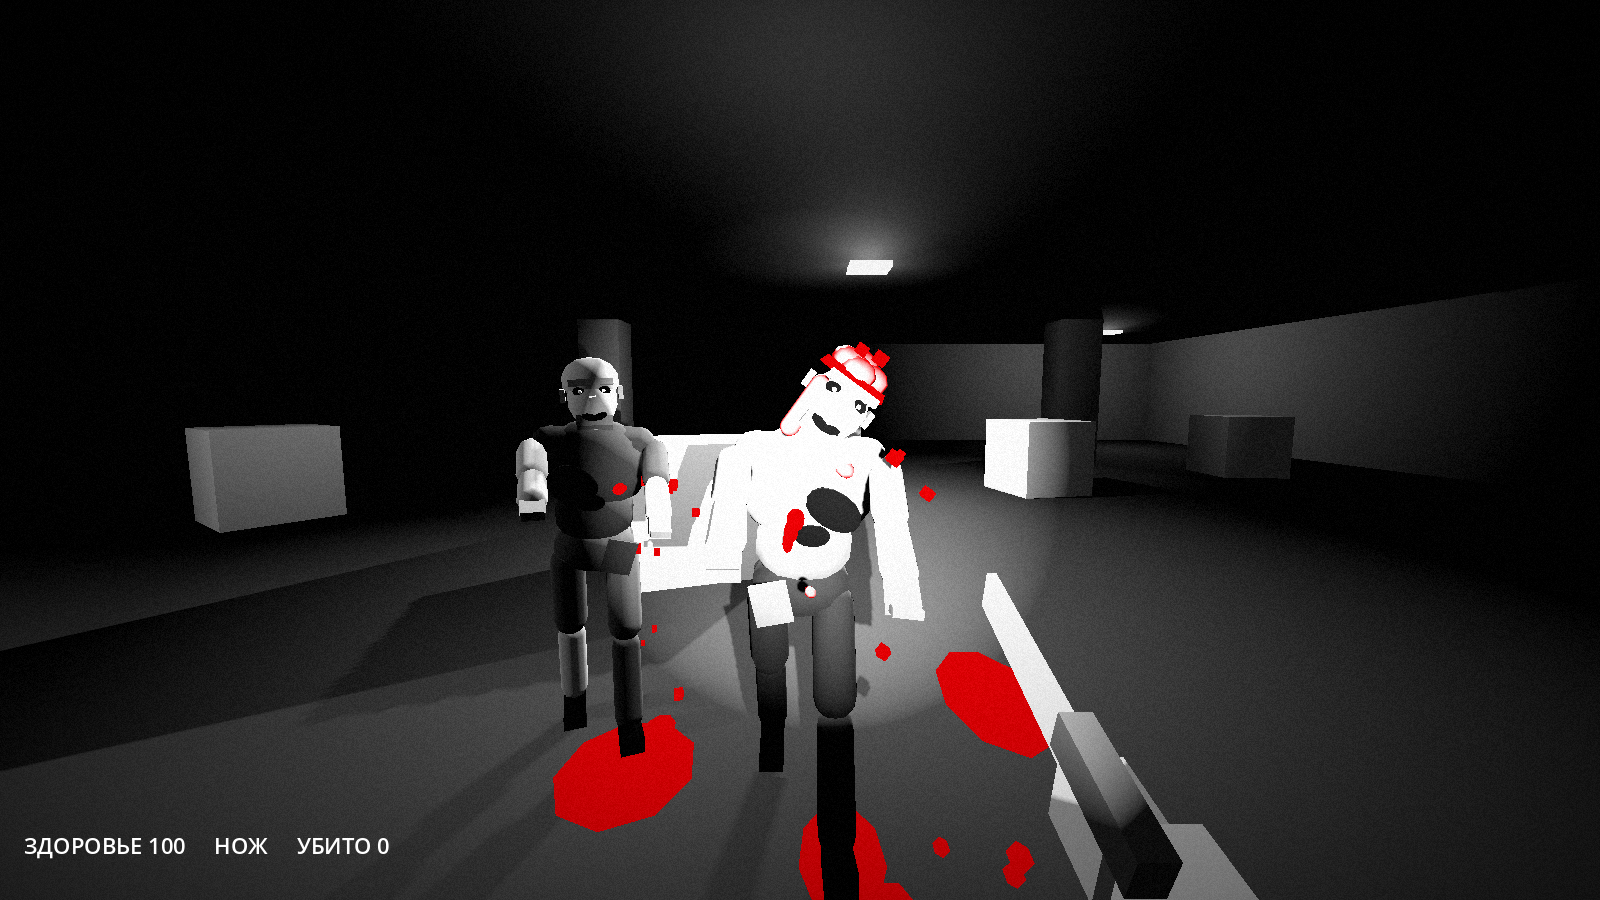
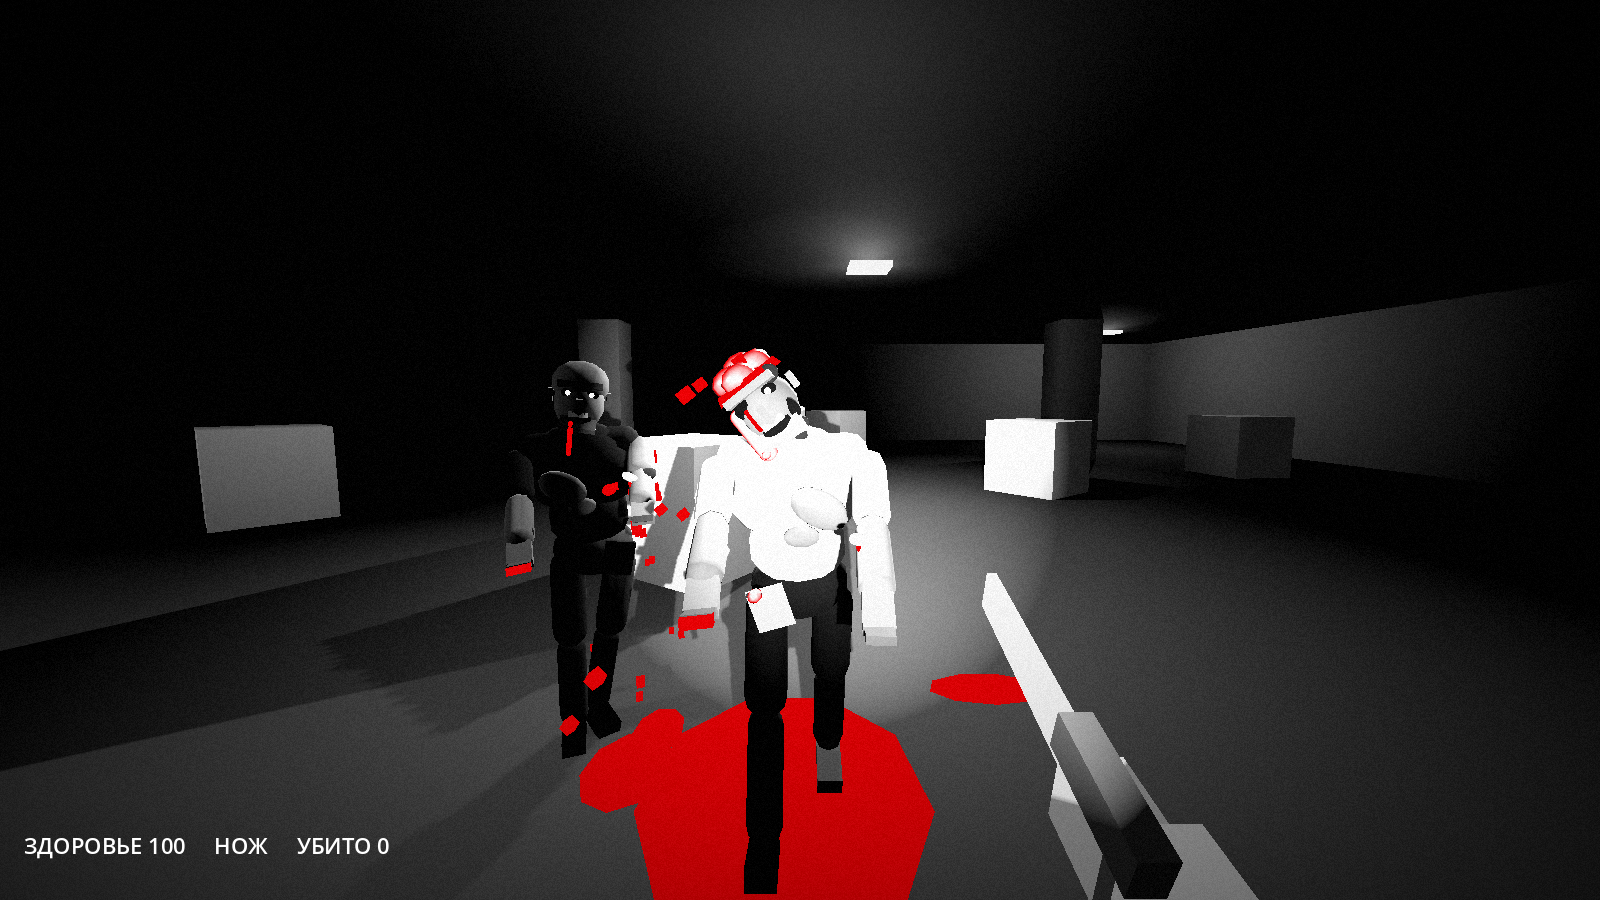
Мерзкие зомби, заметные игроки, хромые и быстрые зомби
- Зомби: серая кожа в трупных пятнах, светящиеся бельма, оскал, кровавая
  слюна, выбитый глаз, прогнившая щека, торчащая кость, кишки.
- Игроки: чистые тона со слабым свечением и фонарь на плече.
- Походки: обычная, хромая (волочит ногу, рывками), быстрая.

Claude-Session: https://claude.ai/code/session_012jPe5PbnitmpuB6XNT2ay9

diff --git a/README.md b/README.md
@@ -31,7 +31,9 @@
 ## Что ещё есть
 
 - Четыре персонажа с разным силуэтом, чтобы различать их без цвета: 1 — светлая куртка, кепка и рюкзак; 2 — тёмное пальто и светлый хвост волос; 3 — каска, жилет с полосами и борода; 4 — капюшон и повязка на лице. Напарники видят у тебя в руках то же оружие, что и ты.
-- Зомби сгорбленные, в рваной одежде, с отвисшей челюстью; руки тянутся вперёд, ноги шагают, голова болтается. Внешность у каждого немного своя.
+- Живых видно сразу: они прямые, в чистой одежде со слабым свечением и с горящим фонарём на плече.
+- Зомби сгорбленные, с серой гниющей кожей в трупных пятнах, мутными светящимися бельмами, оскалом зубов и кровавой слюной. У кого-то выбит глаз, прогнила щека, торчит сломанная кость, из вспоротого живота свисают кишки. Руки тянутся вперёд, голова болтается.
+- Походки: обычный шаркающий шаг, хромые (волочат негнущуюся ногу и заваливаются на неё, идут рывками) и быстрые (сильнее наклонены вперёд, примерно в полтора раза быстрее).
 - 6 зон попадания: голова (×3 урона, мгновенная смерть), торс, две руки, две ноги. Пуля, задевшая голову вскользь, сносит верх черепа: зомби жив, мозги вываливаются и стекают по лицу, следующее попадание в голову добивает.
 - Из каждой раны толчками бьёт кровь. Оторванная часть улетает с кровавым следом, из обрубка хлещет. Без правой ноги зомби ползёт с опорой на левую, без левой — на правую, без обеих — подтягивается на руках; без рук бьёт слабее.
 
